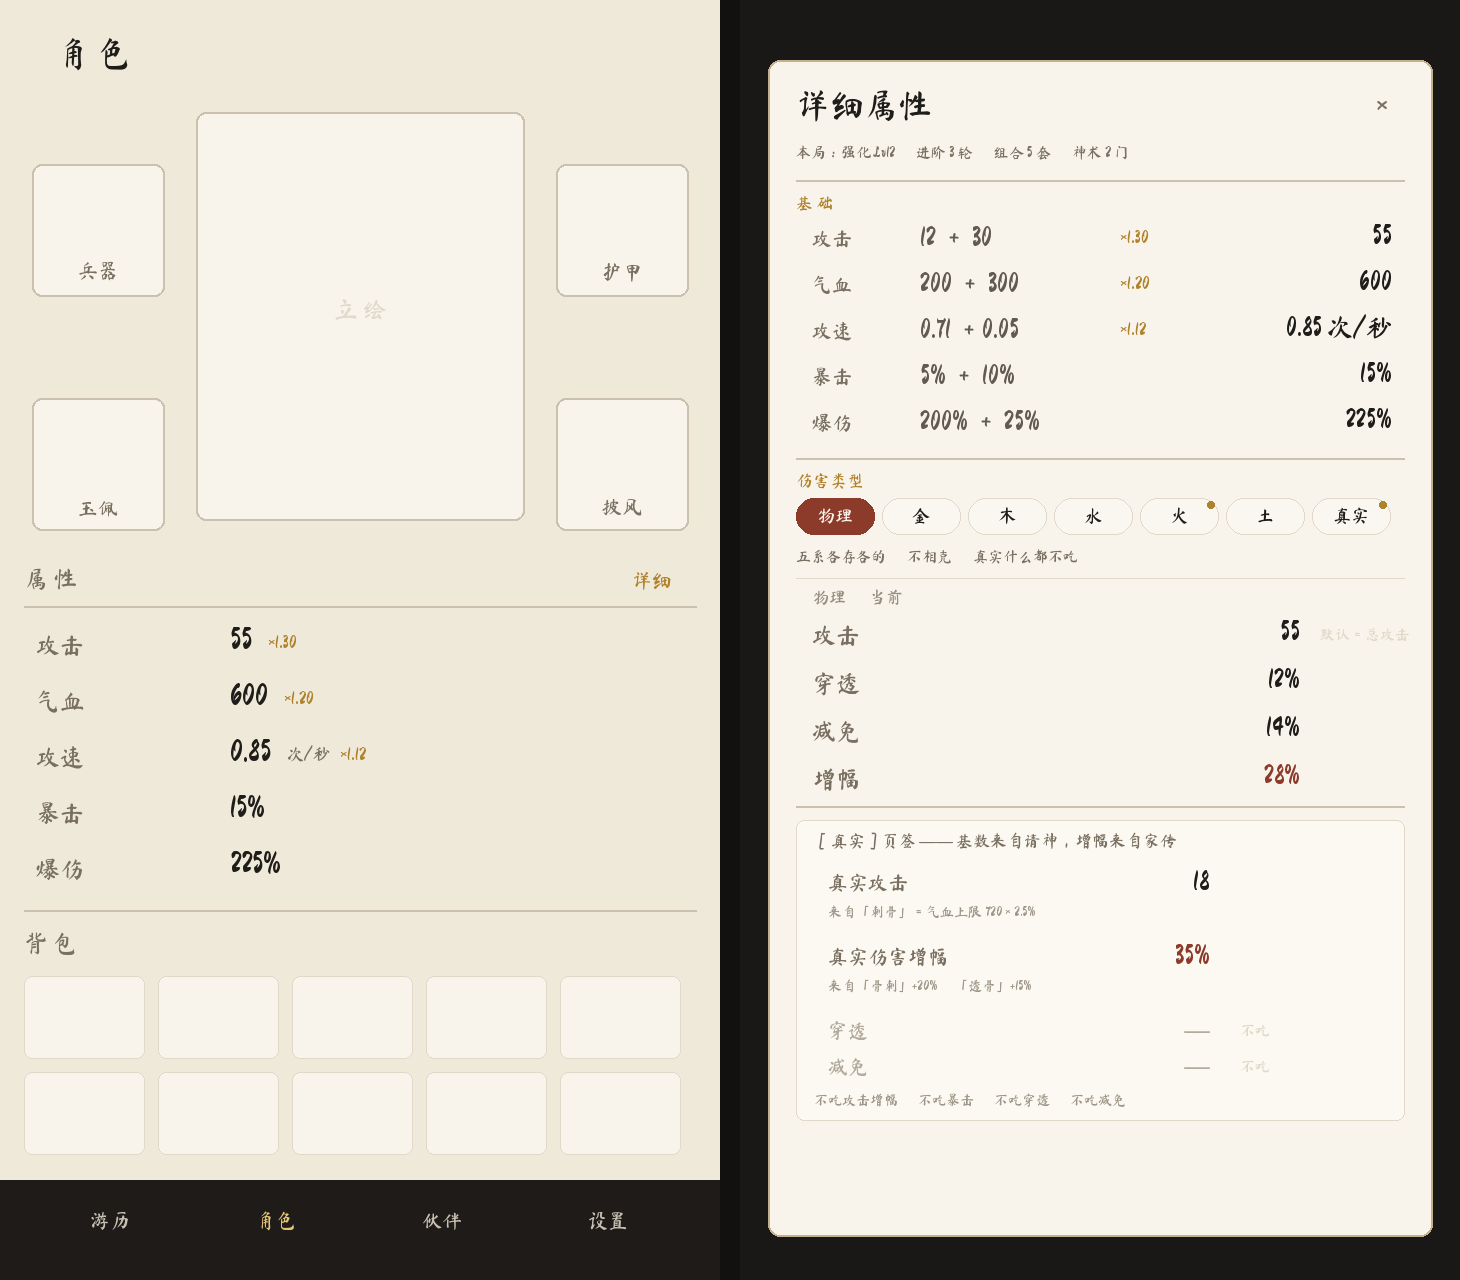
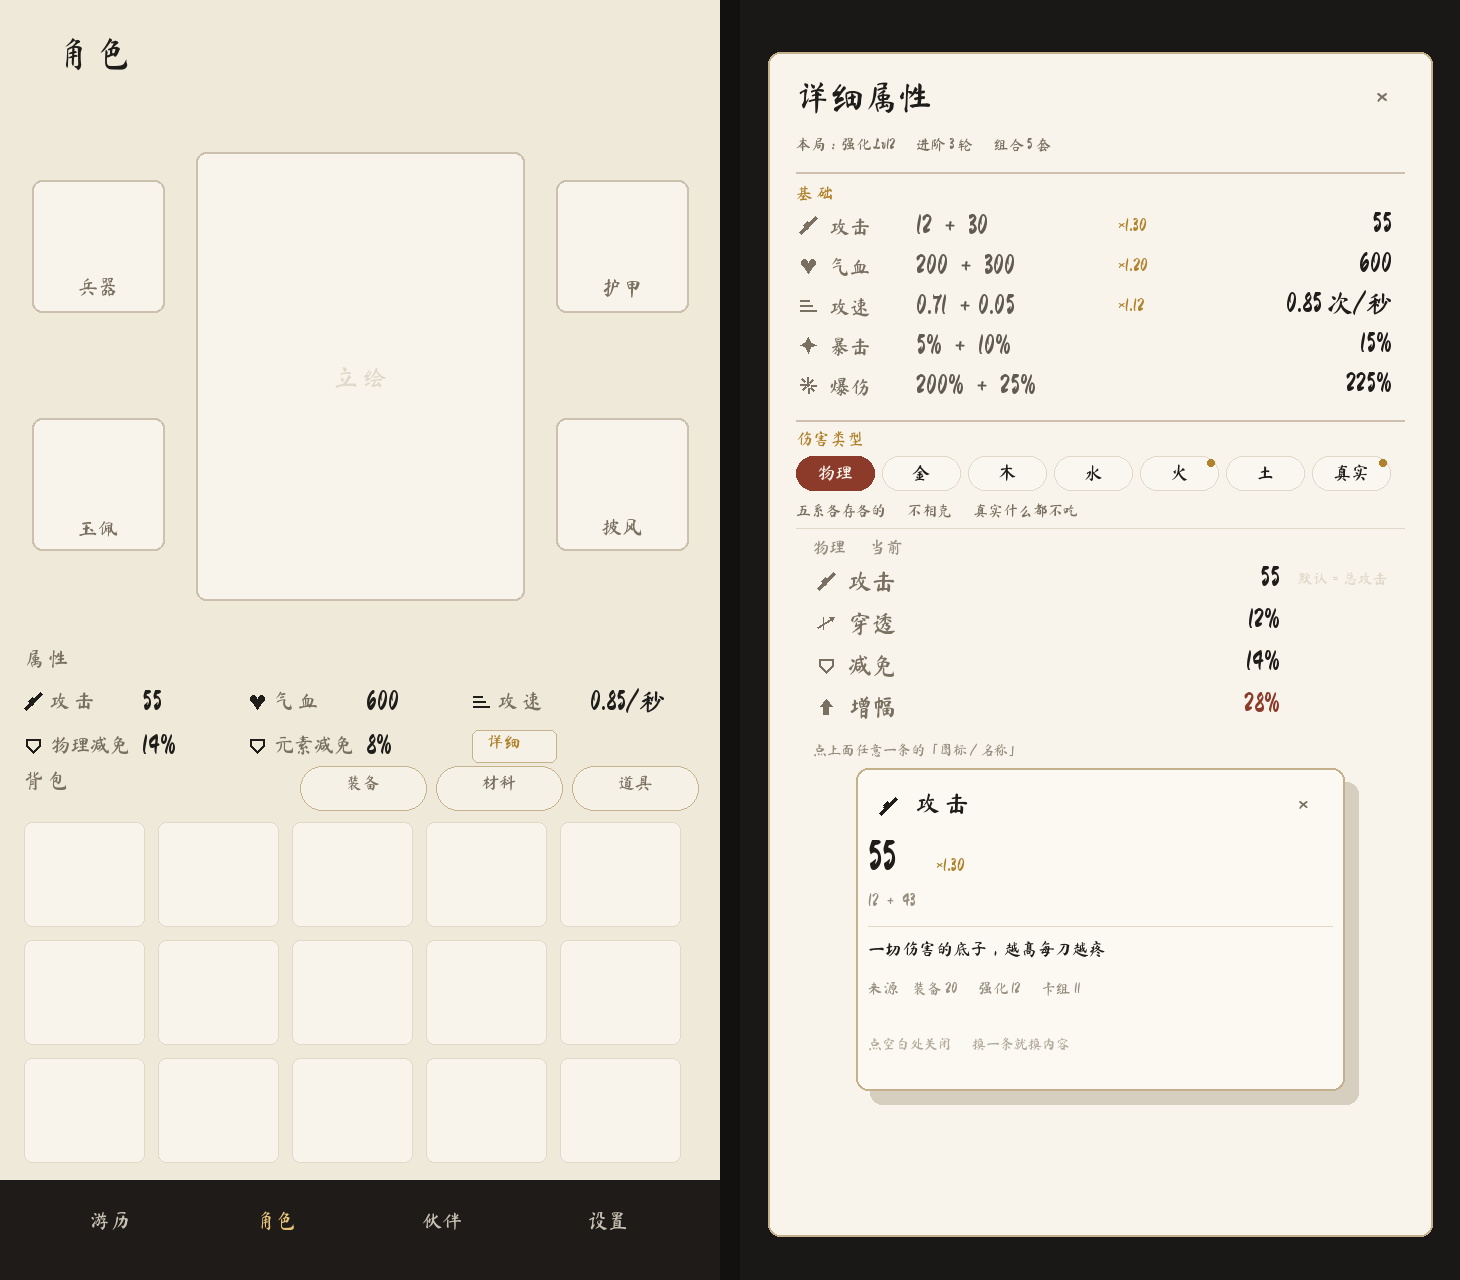
文档：属性草图沿用现有角色页排版 + 弹窗说明 + 图标
- 角色页：网格位置不动（3列×2行，690/734、24/248/472），只换条目、加图标、第6格放详细
- 暴击/爆伤移到详细页；第二行暂定 物理减免/元素减免/详细（待定）
- 不做百科页：点图标或名称就地弹窗（图标+当前值+一句话定义+来源拆解）
- 每条属性配线条图标（剑/心/风/星/爆/箭/盾/升/菱），元素页签直接用字

diff --git a/docs/人物属性_设计稿.md b/docs/人物属性_设计稿.md
@@ -170,33 +170,101 @@
 
 ## 四、界面
 
-### 4.1 角色页
+### 4.1 角色页（**排版不动，只换内容**）
 
-```
-                          属 性              ［详细 ›］
-  攻击   55  ×1.30        气血   600  ×1.20
-  攻速   0.85 次/秒 ×1.12  暴击   15%
-  爆伤   225%
-```
+现在这版角色页的排版已经定稿、看着舒服，**网格位置一个像素都不动** ——
+仍然是 3 列 × 2 行（`y = 690 / 734`，`x = 24 / 248 / 472`，标签 20px、数值 26px），只做三件事：
 
-角色页不摊开"基础＋额外"，只给最终值和增幅；要拆开看就点详细。
+| 位置 | 原来 | 现在 |
+|---|---|---|
+| 第一行 | 攻 击 / 气 血 / 防 御 | ⚔ 攻 击 / ❤ 气 血 / ➤ 攻 速 |
+| 第二行 | 速 度 / 暴 击 / 闪 避 | ⛨ 物理减免 / ⛨ 元素减免 / ［详细 ›］ |
+
+- **暴击 / 爆伤 挪去详细页**（角色页只看"打多疼、多快"）
+- 每条前面加一个 18px 线条图标（见 4.4）
+- 攻速在格子里放不下单位，写 `0.85/秒`；完整写法（`0.85 次/秒`）在弹窗与详细页
+- 点「图标 / 名称」→ 弹属性说明窗（4.3）；点［详细 ›］→ 进详细页
+
+> ⚠ **第二行的三格放什么还没定**，现在暂定「物理减免 / 元素减免 / 详细」。
+> 备选：只放［详细］并把前两格留白；或放"本局：强化 Lv12…"这类摘要。
 
 ### 4.2 详细页
 
-两个区块：**基础（5 行，摊开写"基础＋额外×增幅＝终值"）** ＋ **伤害类型（7 页签，一屏一页）**。
+两个区块：**基础 5 行（攻击/气血/攻速/暴击/爆伤）** ＋ **伤害类型 7 页签**。
 
-- 基础区：`12 ＋ 30   ×1.30   55`
-- 页签行：`[物理][金][木][水][火][土][真实]`，当前页签红底白字
-- 当前页只列 4 行：攻击 / 穿透 / 减免 / 增幅
-- 真实页签：穿透、减免两行**灰掉写"—"**，并标"无视"
-- 点任意一行 → 底部那句解释跟着换（默认"攻击"）
+```
+┌ 详细属性 ─────────────────────────────── × ┐
+│ 本局：强化 Lv12 · 进阶 3 轮 · 组合 5 套     │
+│ ── 基础 ──────────────────────────────── │
+│  ⚔ 攻击   12 ＋ 30    ×1.30        55    │
+│  ✚ 气血   200 ＋ 300  ×1.20        600   │
+│  ➤ 攻速   0.71 ＋0.05 ×1.12   0.85 次/秒 │
+│  ✦ 暴击   5% ＋ 10%                15%   │
+│  ✸ 爆伤   200% ＋ 25%              225%  │
+│ ── 伤害类型 ──────────────────────────── │
+│  (物理)(金)(木)(水)(火)(土)(真实)          │
+│  ⤢ 攻击     55      默认＝总攻击           │
+│  ➹ 穿透     12%                           │
+│  ⛨ 减免     14%                           │
+│  ⇑ 增幅     28%                           │
+│ ──────────────────────────────────────── │
+│ 五系各存各的 · 不相克 · 真实什么都不吃     │
+└───────────────────────────────────────────┘
+```
+
+- 基础区把"基础 ＋ 额外 × 增幅 ＝ 终值"摊开写
+- 页签：当前页签红底白字；**有小金点**表示这一系有加成
+- 真实页签：穿透、减免两行**灰掉写"— 不吃"**
 - 超上限变红标 `(上限 60%)`，不偷偷封顶
 
-### 4.3 战斗中·属性窗
+### 4.3 属性说明窗（替代"百科"）
 
-同一组件，两点差异：顶部多一行本局来源、数值每 0.2 秒实时刷新。
+**不做单独的百科页 / 帮助页。** 任何地方**点属性名或图标**，就地弹一个小窗：
 
-### 4.4 显示规范
+```
+        ┌──────────────────────────────┐
+        │  ⚔  攻 击                  ×  │
+        │                              │
+        │        55   ×1.30            │
+        │  12 ＋ 43                    │
+        │  ────────────────────────    │
+        │  一切伤害的底子，越高每刀越疼 │
+        │  来源：装备 20 · 强化 12     │
+        │        · 卡组 11             │
+        └──────────────────────────────┘
+```
+
+固定四段：**图标＋名称 → 当前值 → 一句话定义 → 来源拆解**。
+
+- 角色页、详细页、战斗中属性窗，**同一个组件**
+- 点窗外空白处 / 右上 × 关闭（不挡操作）
+- 弹窗不暂停战斗
+
+### 4.4 图标
+
+每条属性配一个**线条小图标**（和现有 `shared/glyph_draw.gd` 同一画法：纯线条、单色）：
+
+| 属性 | 图标 | 长相 |
+|---|---|---|
+| 攻击 | 剑 | 斜置一刀带护手 |
+| 气血 | 心 | 实心小桃心 |
+| 攻速 | 风 | 三道渐快的速度线 |
+| 暴击 | 星 | 四角星（瞄准） |
+| 爆伤 | 爆 | 放射状短芒 |
+| 穿透 | 箭 | 箭穿一条横线 |
+| 减免 | 盾 | 盾形轮廓 |
+| 增幅 | 升 | 向上的箭头 |
+| 真实 | 菱 | 空心菱形（破虚） |
+
+元素页签直接用**字**（金 / 木 / 水 / 火 / 土），不另画图标，省得六套图形风格不统一。
+
+颜色：图标与文字同色（暗墨 `#1F1D1A`）；当前页签内为米白。
+
+### 4.5 战斗中·属性窗
+
+同一组件，两点差异：顶部多一行本局来源；数值每 0.2 秒实时刷新。
+
+### 4.6 显示规范
 
 | 类型 | 格式 | 例 |
 |---|---|---|
@@ -204,10 +272,8 @@
 | 百分点 | 整数 + % | `15%` |
 | 增幅 | `×1.30`（乘数，不写 +%） | `×1.30` |
 | 攻速 | 两位小数 + 次/秒 | `0.85 次/秒` |
-| 无效项 | 灰色破折号 ＋ 小字 | `—  无视` |
+| 无效项 | 灰色破折号 ＋ 小字 | `—  不吃` |
 | 变化 | 数字闪一下（涨绿降红）0.4 秒 | `55 → 58` |
-
----
 
 ## 五、与现有代码的对接
 
